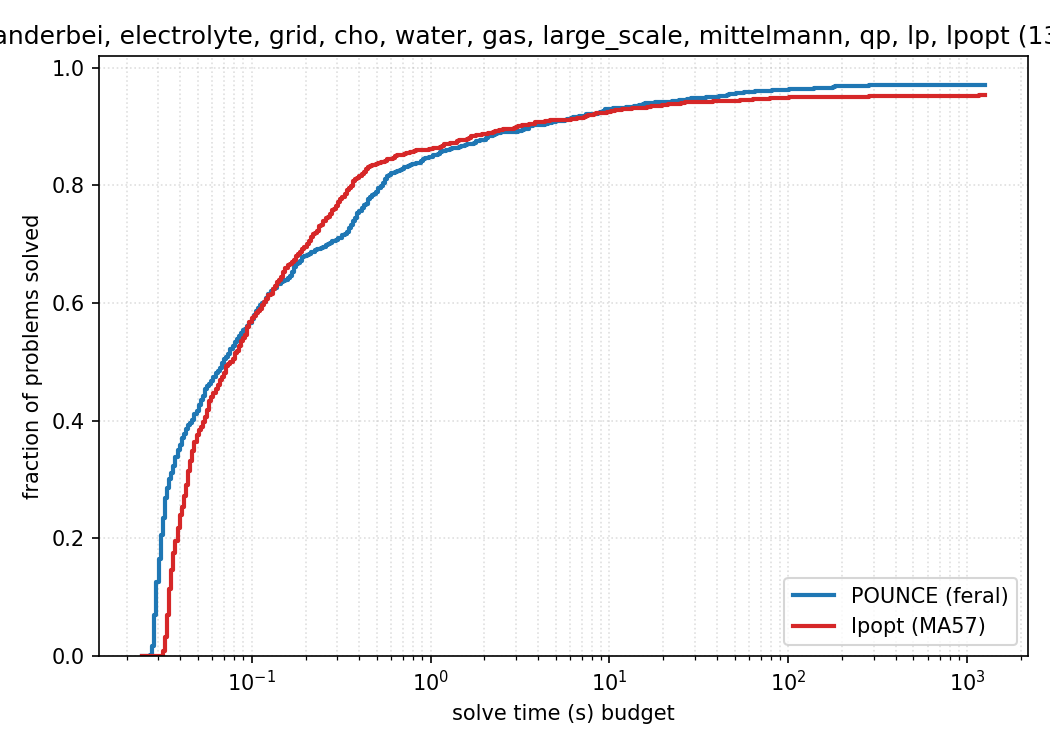
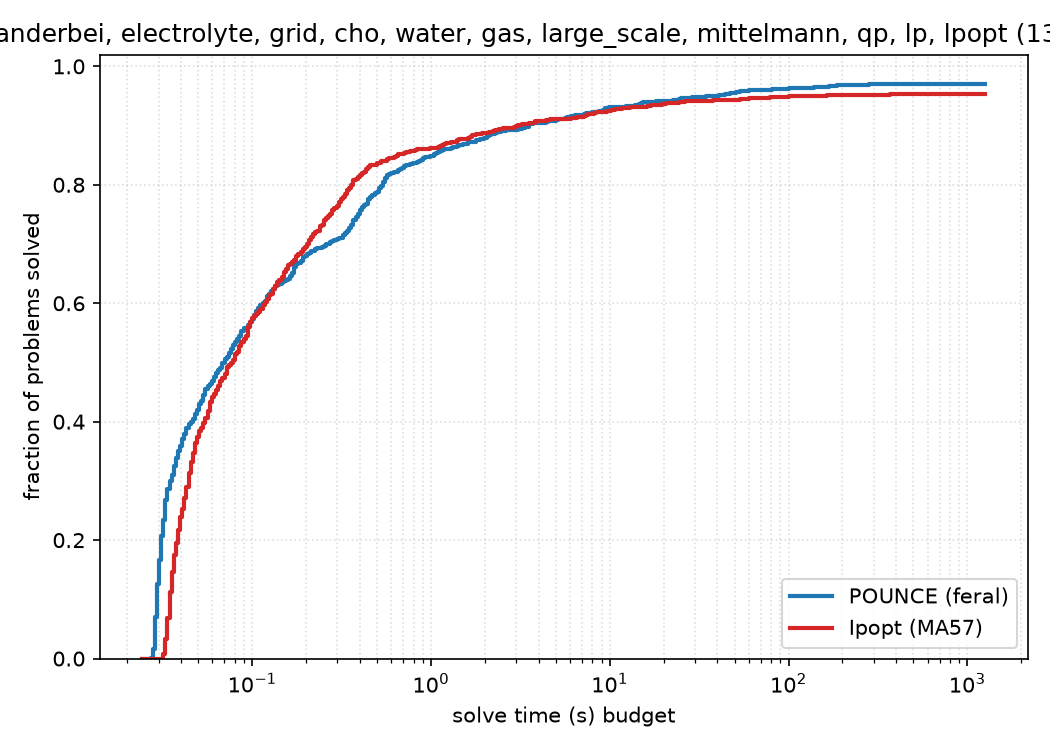
bench(qp): refresh the committed baseline so it is what the tree produces
gh#760's second follow-up is "refresh the committed QP baseline so the new
counts are the reference." e84f4259 already satisfied it on paper -- it
regenerated the report at 32fea00e, downstream of 4c02817d -- but the spot
checks for this issue found two problems the current tree no longer solves in
the committed number of iterations, so on the only reading that matters the
baseline had gone stale again.

Re-ran `make -C benchmarks qp-rerun` on this branch, same host, same committed
ipopt_ma57.json reference. Against the 2026-08-23 run: 138/138 solved, no
status flips, no objective change above 1e-6 relative, total iterations
3148 -> 3164, total solve time 358.3 s -> 354.9 s. Six models moved and the
other 132 did not move by a single iteration:

  STADAT1   34 -> 92     QSHIP08S  23 -> 18
  Q25FV47  142 -> 120    QSTANDAT  36 -> 31
  QSHIP12S  38 -> 30     QSIERRA   41 -> 39

In the report's QP table that is mean iterations 22.3 -> 22.4 and total time
102.79 s -> 93.45 s over the 133 commonly-solved problems. Every other suite's
section is byte-identical; only the QP rows, the provenance stamp and the
regenerated figures move.

None of this is 4c02817d, which is six days upstream of the run it replaces,
and none of it is the bound relaxation -- STADAT1 and Q25FV47 both move with
`bound_relax_factor=0` too.

Claude-Session: https://claude.ai/code/session_01N9Tqn6nrW7B91fC1HpJsHp

diff --git a/benchmarks/BENCHMARK_REPORT.md b/benchmarks/BENCHMARK_REPORT.md
@@ -1,12 +1,12 @@
 # POUNCE Benchmark Report
 
-Generated: 2026-08-23 22:39:14
+Generated: 2026-08-29 11:16:03
 
 ## Provenance
 
 | Component | Version / Detail |
 |-----------|------------------|
-| POUNCE | v0.10.0 (main @ 32fea00e) |
+| POUNCE | v0.10.0 (fix/760-record-qp-bound-relax-cost @ 31cd87a0) |
 | POUNCE linear solver | feral (default) |
 | Ipopt | Ipopt 3.14.20 (Darwin arm64), ASL(20241202) |
 | Ipopt linear solver | ma57 (via ref/Ipopt/install-ma57) |
@@ -273,16 +273,16 @@ On 133 commonly-solved problems:
 
 | Metric | POUNCE | Ipopt |
 |--------|--------|-------|
-| Median time | 97.1ms | 92.9ms |
-| Total time | 102.79s | 172.97s |
-| Mean iterations | 22.3 | 75.6 |
+| Median time | 85.4ms | 92.9ms |
+| Total time | 93.45s | 172.97s |
+| Mean iterations | 22.4 | 75.6 |
 | Median iterations | 18 | 24 |
 
-- **Geometric mean speedup**: 1.0x
-- **Median speedup**: 1.0x
-- POUNCE faster: 71/133 (53%)
+- **Geometric mean speedup**: 1.1x
+- **Median speedup**: 1.1x
+- POUNCE faster: 73/133 (55%)
 - POUNCE 10x+ faster: 3/133
-- Ipopt faster: 62/133
+- Ipopt faster: 60/133
 
 ## LP Suite — Performance
 
